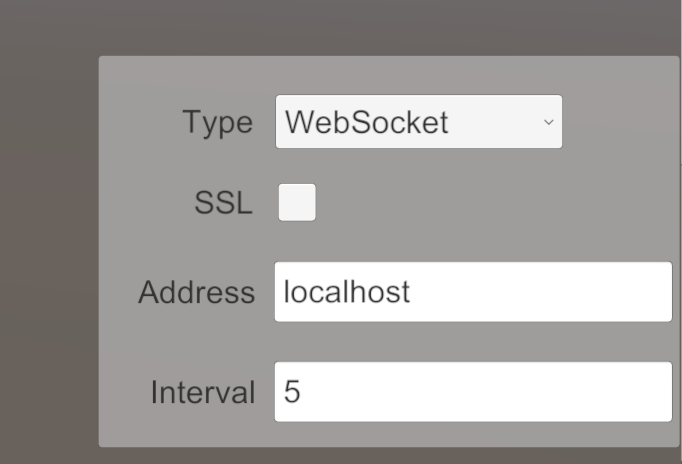
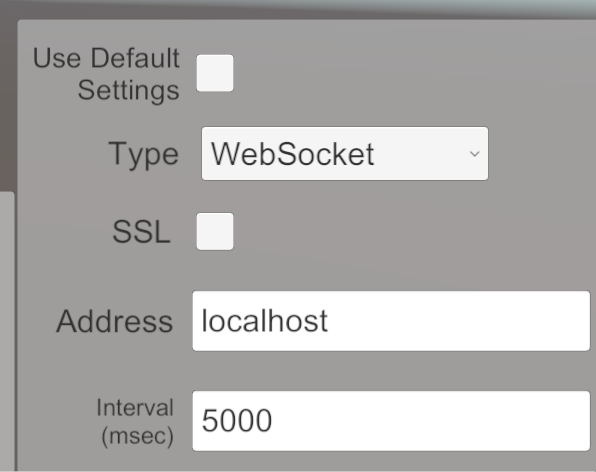
fix

diff --git a/com.unity.renderstreaming/Documentation~/settings.md b/com.unity.renderstreaming/Documentation~/settings.md
@@ -2,13 +2,13 @@
 
 Unity Render Streaming saves configuration assets to the project. The configuration asset are created in the Render Streaming panel of the Project Settings Window. If your project contains more than one configuration asset, select the asset in the Render Streaming Settings section.
 
-![Render Streaming Project Settings](images/renderstreaming_project_settings.png)
+![Render Streaming Project Settings](images/renderstreaming_settings.png)
 
 ## General Settings
 
 | Parameter | Description | Default |
 | ---- | ---- | ---- |
-| **Automatic** | Automatically performs the necessary setup for streaming and starts streaming. | **Enabled** |
+| **Automatic** | Automatically performs the necessary setup for streaming and starts streaming. | Enabled |
 
 ### Behaviour of the Automatic flag
 
@@ -20,12 +20,12 @@ Streaming continues even when moving between scenes. If you want to stop streami
 
 | Parameter | Description | Default |
 | ---- | ---- | ---- |
-| **Run on Awake** |  Automatically started when called `Awake` method. | **Enabled** |
-| **Signaling Type** | Choose the signaling type (See [About Signaling Type](signaling-type.md)). | **websocket** |
-| **Signaling Server URL** | Set the signaling server URL. <br>If you use WebSocket as a signaling protocol, you should specify a URL starting with **ws** or **wss**. | **ws://127.0.0.1** |
+| **Run on Awake** |  Automatically started when called `Awake` method. | Enabled |
+| **Signaling Type** | Choose the signaling type (See [About Signaling Type](signaling-type.md)). | websocket |
+| **Signaling Server URL** | Set the signaling server URL. <br>If you use WebSocket as a signaling protocol, you should specify a URL starting with **ws** or **wss**. | ws://127.0.0.1 |
 | **ICE Server** | Set a list of STUN/TURN servers. (See [TURN Server](turnserver.md)) | |
-| **URLs** | Set URLs of STUN/TURN servers. | **[stun:stun.l.google.com:19302\]** |
+| **URLs** | Set URLs of STUN/TURN servers. | [stun:stun.l.google.com:19302\] |
 | **Username** | The username to use when logging into the TURN server. | |
 | **Credencial** | The credential to use when logging into the TURN server. | |
-| **Credencial Type** | This attribute specifies what kind of **credential** is to be used when connecting to the TURN server. | **Password** |
-| **Polling Interval** | Set the polling frequency (in milliseconds) to the signaling server <br>Valid only if you are using Http as the signaling protocol. | **5000 (msec)** |
+| **Credencial Type** | This attribute specifies what kind of **credential** is to be used when connecting to the TURN server. | Password |
+| **Polling Interval** | Set the polling frequency (in milliseconds) to the signaling server <br>Valid only if you are using Http as the signaling protocol. | 5000 (msec) |

diff --git a/com.unity.renderstreaming/Documentation~/webapp.md b/com.unity.renderstreaming/Documentation~/webapp.md
@@ -5,25 +5,27 @@ The **Web application**
 - handles signaling between Unity and the Web browser
 - is the location of the Web page
 
-## The Web Client
-
-The **Render Streaming** web application uses WebRTC technologies, which means that your browser must also support WebRTC. You can see a table of supported browsers [here](index.md#web-browsers-support).
+The web application uses WebRTC technologies, which means that your browser must also support WebRTC. You can see a table of supported browsers [here](index.md#web-browsers-support).
 
 > [!NOTE]
 > See [this page](https://caniuse.com/#search=webrtc) for details on which browsers support WebRTC.
 
 
-## The Web Server
+## Lanching The Server
 
-Click on **Edit > Render Streaming > Download web app** menu item to download our web server on [this site](https://github.com/Unity-Technologies/UnityRenderStreaming/releases).
+You can get a executable file of web server from the **Wizard Window**.
 
-![Download webapp](images/download_webapp.png)
+1. Select **Window > Render Streaming > Render Streaming Wizard** in the menu bar.
 
-After downloading, run it from the command line.
+2. Select **Download latest version web app**.
+
+![Download webapp](images/wizard_download_webapp.png)
+
+3. Run it from the command line.
 
 ![Launch webserver explorer](images/launch_webserver_explorer.png)
 
-### Command Options
+## Command Options
 
 | Option | Details | Default |
 | ------ | ------- | ------- |
@@ -36,7 +38,7 @@ After downloading, run it from the command line.
 | `-m` `—-mode \<type\>` | Choose Communication mode public or private | `public` |
 | `-l` `—logging \<type\>` | Choose http logging type (use [morgan](https://www.npmjs.com/package/morgan) library) | `dev` |
 
-### Command Examples
+## Command Examples
 
 Use the following command to start the server as http. Port `80` will be used.
 

diff --git a/com.unity.renderstreaming/Documentation~/create-scene.md b/com.unity.renderstreaming/Documentation~/create-scene.md
@@ -4,9 +4,19 @@ This tutorial explains how to edit an empty scene in Unity Editor and display th
 
 ## Changing Project Settings
 
-Disable Automatic Rendering
+The procedure described in this page assumes that the [**Automatic Streaming**](settings.md##general-settings) feature is not used. Please turn the flag off following steps.
 
-ここで説明する手順は [Automatic Streaming](settings.md##general-settings) の機能を使用しないことを前提にしています。Project Settings ウィンドウを開いて、設定をオフにしてください。
+1. Open the **Project Settings** window.
+
+2. Select **Render Streaming** tab.
+
+3. Select **Create New Settings Asset**.
+
+4. Save the asset with any name.
+
+5. Disable **Automatic Streaming**.
+
+![Disable Automatic Streaming](images/disable_automaticstreaming.png)
 
 ## Setting component
 
@@ -14,16 +24,9 @@ If Unity version is 2020 or later, Create a new empty scene. Select **File > New
 
 ![Create new scene](images/create_new_scene.png)
 
-Select the **Main Camera** object in the Hierarchy window, and add the **Render Streaming** component in the Inspector window.
+Select the **Main Camera** object in the Hierarchy window, and add the **Signaling Manager** component in the Inspector window.
 
-![Add RenderStreaming component](images/add_renderstreaming_component.png)
-
-Update properties in the inspector.
-
-- **Signaling Type** : `WebSocketSignaling`
-- **Signaling URL** : `ws://localhost`
-
-![Create scene 03](images/change_properties_websocket.png)
+![Add SignalingManager component](images/add_signalingmanager_component.png)
 
 Next, we will add the **Broadcast** component to the **Main Camera** object. this component deliver the stream to multiple peers.
 

diff --git a/com.unity.renderstreaming/Documentation~/samples.md b/com.unity.renderstreaming/Documentation~/samples.md
@@ -38,18 +38,19 @@ Open **Menu** scene and press `Play` button, as you can see the menu for sample 
 You can change signaling settings below during runtime.
 
 | Parameter | Description |
-| ----------- | --------------------------- |
-| [**Signaling Type**](signaling-type.md) | *Http*, *WebSocket* or *Furioos* |
-| **Enable/Disable SSL** | Use *https* if set enable. |
+| --- | --- |
+| **Use Default Settings** | Refer to settings of [Project Settings](settings.md). |
+| [**Signaling Type**](signaling-type.md) | *Http*, *WebSocket* or *Furioos*. |
+| **Enable/Disable SSL** | Use **https** if set enable. |
 | **Host Address** | Set IP address or URL of your signaling server. |
-| **Interval** | Polling interval for communication of signaling. <br/> This parameter effects Http signaling. |
+| **Interval (msec)** | Polling interval for communication of signaling. <br/> This parameter effects Http signaling. |
 
 ![Sample menu](images/sample_menu_setting_panel.png)
 
 Moreover, you can choice the options about the video streaming settings.
 
 | Parameter | Description |
-|-----------|---------------------------|
+| --- | ---|
 | **Video Codec (Receiver)** | Choice preferred video codec for receiver. <br/> Often the performance of [Hardware codec](https://docs.unity3d.com/Packages/com.unity.webrtc@2.4/manual/videostreaming.html#hardware-acceleration-codecs) is greater than software codec. |
 | **Video Codec (Sender)** | Choice preferred video codec for sender. |
 | **Stream Size** | Set the resolution of video streaming for sender. |

diff --git a/com.unity.renderstreaming/Documentation~/tutorial.md b/com.unity.renderstreaming/Documentation~/tutorial.md
@@ -107,10 +107,4 @@ You can see the game view on the mobile browser.
 
 ## Next Step
 
-このチュートリアルでは、テンプレートから作成した Unity プロジェクトをブラウザから操作する例を取り上げました。
-別の例として、開発者がシーン上にコンポーネントを設定することで、同様のことを行うことができます。
-[ストリーミングアプリケーションの開発]() を確認してください。
-
-また、個々のサンプルはマニュアルでストリーミングコンポーネントの設定を行っています。
-コンポーネントの設定方法の参考にしてください。
-サンプル | Unity Render Streaming | 3.1.0-exp.3
+This tutorial explained an example using the Unity Project created from a template, and manipulating the character in 3D game from web browsers. An another example, developers can do the same by setting up some components on the scene. Please see [this page](dev-streaming-app-intro.md). This method allows for more detailed customization.
